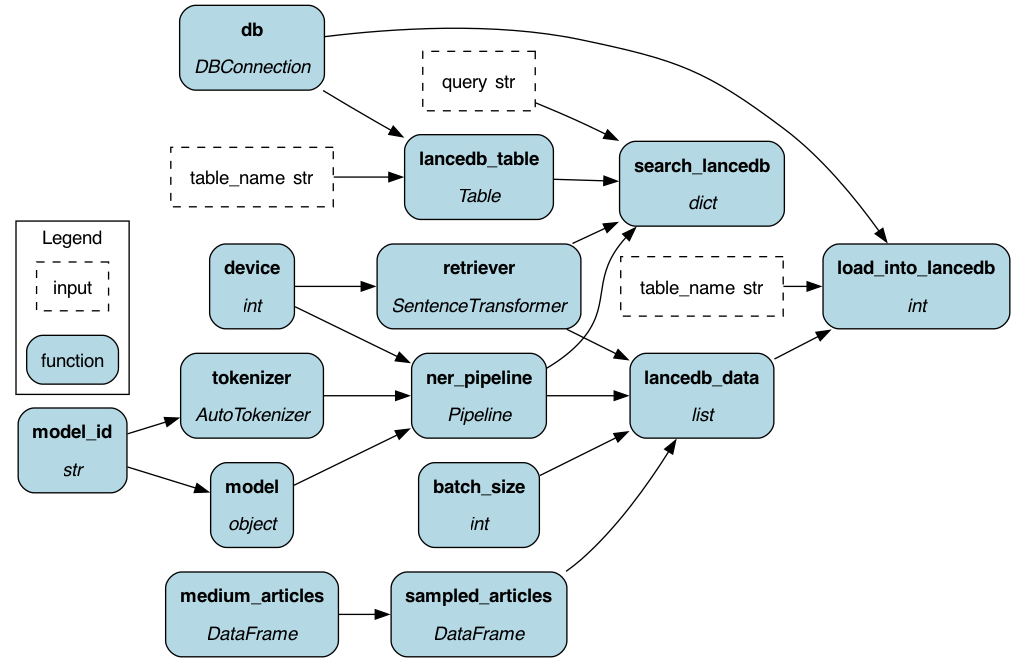
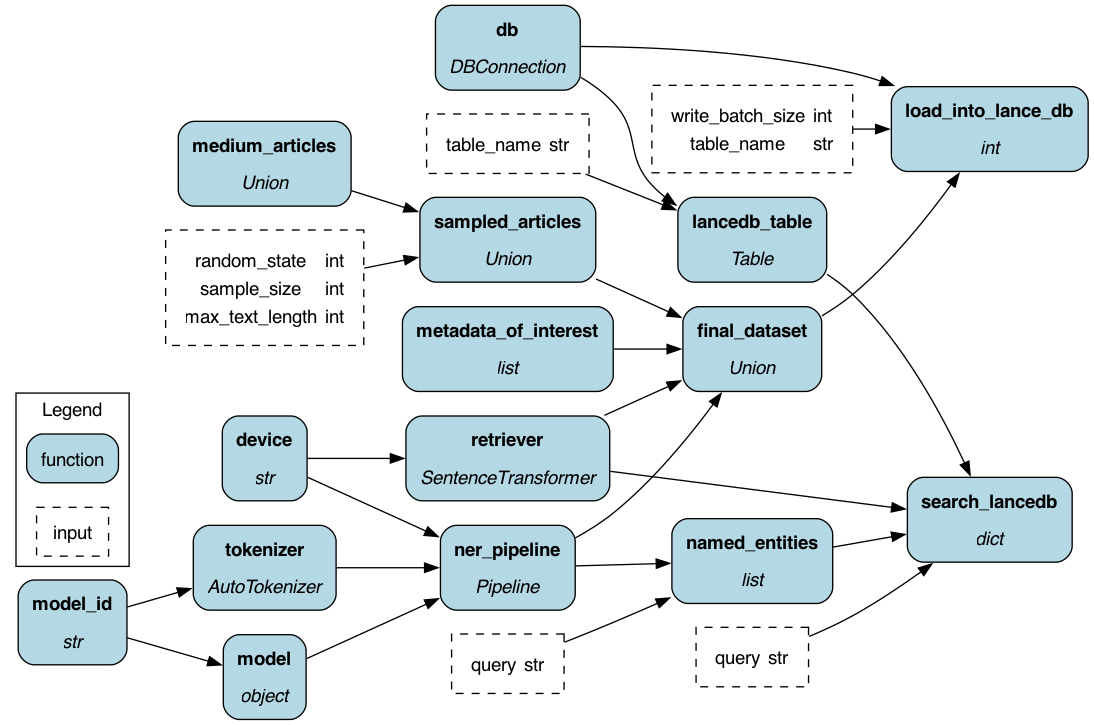
Gets example to run on HF datasets properly
TODOs:
 - tidy up
 - README
 - remove parallel in favor of discussion

diff --git a/examples/LLM_Workflows/NER_Example/ner_extraction.py b/examples/LLM_Workflows/NER_Example/ner_extraction.py
@@ -1,29 +1,51 @@
+from typing import Union
+
 import lancedb
 import numpy as np
-import pandas as pd
+
+# import pandas as pd
 import torch
-from datasets import load_dataset
+from datasets import Dataset, DatasetDict, IterableDataset, IterableDatasetDict, load_dataset
 from sentence_transformers import SentenceTransformer
 from transformers import AutoModelForTokenClassification, AutoTokenizer, pipeline
 from transformers.pipelines import base
 
+HF_DS = Union[DatasetDict, Dataset, IterableDatasetDict, IterableDataset]
 
-def medium_articles() -> pd.DataFrame:
+
+def medium_articles() -> HF_DS:
     # load the dataset and convert to pandas dataframe
-    df = load_dataset(
-        "fabiochiu/medium-articles", data_files="medium_articles.csv", split="train"
-    ).to_pandas()
+    ds = load_dataset("fabiochiu/medium-articles", data_files="medium_articles.csv", split="train")
     # change to HF datasetset
-    return df
+    return ds
 
 
-def sampled_articles(medium_articles: pd.DataFrame) -> pd.DataFrame:
-    df = medium_articles.dropna().sample(20000, random_state=32)
-    # select first 1000 characters
-    df["text"] = df["text"].str[:1000]
-    # join article title and the text
-    df["title_text"] = df["title"] + ". " + df["text"]
-    return df
+def sampled_articles(
+    medium_articles: HF_DS,
+    sample_size: int = 1000,
+    random_state: int = 32,
+    max_text_length: int = 1000,
+) -> HF_DS:
+    """Samples the articles and does some light transformations.
+    Transformations:
+     - selects the first 1000 characters of text. This is for performance here. But in real life you'd
+     do something for your use case.
+      - Joins article title and the text to create one text string.
+    """
+    # Filter out entries with NaN values in 'text' or 'title' fields
+    dataset = medium_articles.filter(
+        lambda example: example["text"] is not None and example["title"] is not None
+    )
+
+    # Shuffle and take the first 10000 samples
+    dataset = dataset.shuffle(seed=random_state).select(range(sample_size))
+
+    # Truncate the 'text' to the first 1000 characters
+    dataset = dataset.map(lambda example: {"text": example["text"][:max_text_length]})
+
+    # Concatenate the 'title' and truncated 'text'
+    dataset = dataset.map(lambda example: {"title_text": example["title"] + ". " + example["text"]})
+    return dataset
 
 
 def device() -> str:
@@ -67,11 +89,6 @@ def db() -> lancedb.DBConnection:
     return lancedb.connect("./.lancedb")
 
 
-def batch_size() -> int:
-    # we will use batches of 64
-    return 64
-
-
 from tqdm.auto import tqdm
 
 
@@ -87,56 +104,140 @@ def _extract_named_entities(text_batch, ner_pipeline):
     return entities
 
 
-def lancedb_data(
-    sampled_articles: pd.DataFrame,
+def _extract_named_entities_text(title_text, ner_pipeline):
+    # extract named entities using the NER pipeline
+    extracted_batch = ner_pipeline(title_text)
+    # this should be extracted_batch = dataset.map(ner_pipeline)
+    entities = []
+    # loop through the results and only select the entity names
+    for text in extracted_batch:
+        ne = [entity["word"] for entity in text]
+        entities.append(ne)
+    named_entities = [list(set(entity)) for entity in entities]
+    return named_entities
+
+
+# def embedded_dataset(sampled_articles: HF_DS, retriever: SentenceTransformer) -> HF_DS:
+#     return sampled_articles.map(lambda x: {"vector": retriever.encode(x["title_text"])})
+
+
+def metadata_of_interest() -> list[str]:
+    return ["title", "url", "authors", "timestamp", "tags"]
+
+
+def final_dataset(
+    sampled_articles: HF_DS,
     retriever: SentenceTransformer,
-    batch_size: int,
     ner_pipeline: base.Pipeline,
-) -> list[dict]:
+    metadata_of_interest: list[str],
+) -> HF_DS:
+    def _batch_map(dataset, retriever, ner_pipeline) -> dict:
+        title_text_list = dataset["title_text"]
+        emb = retriever.encode(title_text_list)
+        named_entities = _extract_named_entities_text(title_text_list, ner_pipeline)
+        # _df = dataset.to_pandas()
+        # _df = _df.drop("title_text", axis=1)
+        return {
+            "embedding": emb,
+            # "metadata": _df.to_dict(orient="records"),
+            "named_entities": named_entities,
+        }
+
+    final_ds = sampled_articles.map(
+        _batch_map, batched=True, fn_kwargs={"retriever": retriever, "ner_pipeline": ner_pipeline}
+    )
+
+    final_ds = final_ds.map(lambda x: {"metadata": {k: x[k] for k in metadata_of_interest}})
+    return final_ds
+
+
+def _write_to_lancedb(data: list[dict], db: lancedb.DBConnection, table_name: str) -> int:
+    try:
+        db.create_table(table_name, data)
+    except (OSError, ValueError):
+        tbl = db.open_table(table_name)
+        tbl.add(data)
+    return len(data)
+
+
+def load_into_lance_db(
+    final_dataset: HF_DS, db: lancedb.DBConnection, table_name: str, write_batch_size: int = 100
+) -> int:
+
+    # iterate in batches to write to lancedb
     data = []
-
-    for i in tqdm(range(0, len(sampled_articles), batch_size)):
+    total_written = 0
+    for i in tqdm(range(0, len(final_dataset), write_batch_size)):
         # find end of batch
-        i_end = min(i + batch_size, len(sampled_articles))
+        i_end = min(i + write_batch_size, len(final_dataset))
         # extract batch
-        batch = sampled_articles.iloc[i:i_end].copy()
-        # generate embeddings for batch
-        # def _title_text_list(batch):
-        #     return retriever.encode(batch["title_text"].tolist()).tolist()
-        # emb = dataset.map(_title_text_list)
-        emb = retriever.encode(batch["title_text"].tolist()).tolist()
-        # extract named entities from the batch
-        entities = _extract_named_entities(batch["title_text"].tolist(), ner_pipeline)
-        # remove duplicate entities from each record
-        batch["named_entities"] = [list(set(entity)) for entity in entities]
-        batch = batch.drop("title_text", axis=1)
-        # get metadata
-        meta = batch.to_dict(orient="records")
+        batch = final_dataset[i:i_end]
         # create unique IDs
-        ids = [f"{idx}" for idx in range(i, i_end)]
         # add all to upsert list
-        to_upsert = list(zip(ids, emb, meta, batch["named_entities"]))
-        for id, emb, meta, entity in to_upsert:
+        to_upsert = list(zip(batch["embedding"], batch["metadata"], batch["named_entities"]))
+        for emb, meta, entity in to_upsert:
             temp = {}
-
             temp["vector"] = np.array(emb)
             temp["metadata"] = meta
             temp["named_entities"] = entity
             data.append(temp)
-    return data
+        total_written += _write_to_lancedb(data, db, table_name)
+        data = []
+    return total_written
 
 
-def load_into_lancedb(
-    lancedb_data: list[dict],
-    db: lancedb.DBConnection,
-    table_name: str,
-) -> int:
-    try:
-        db.create_table(table_name, lancedb_data)
-    except (OSError, ValueError):
-        tbl = db.open_table(table_name)
-        tbl.add(lancedb_data)
-    return len(lancedb_data)
+# def lancedb_data(
+#     sampled_articles: HF_DS,
+#     retriever: SentenceTransformer,
+#     batch_size: int,
+#     ner_pipeline: base.Pipeline,
+# ) -> list[dict]:
+#     data = []
+#
+#     dataset = sampled_articles.map(_batch_map, batched=True, fn_kwargs={"retriever": retriever, "ner_pipeline": ner_pipeline})
+#
+#     for i in tqdm(range(0, len(sampled_articles), batch_size)):
+#         # find end of batch
+#         i_end = min(i + batch_size, len(sampled_articles))
+#         # extract batch
+#         batch = sampled_articles.iloc[i:i_end].copy()
+#         # generate embeddings for batch
+#         # def _title_text_list(batch):
+#         #     return retriever.encode(batch["title_text"].tolist()).tolist()
+#         # emb = dataset.map(_title_text_list)
+#         emb = retriever.encode(batch["title_text"].tolist()).tolist()
+#         # extract named entities from the batch
+#         entities = _extract_named_entities(batch["title_text"].tolist(), ner_pipeline)
+#         # remove duplicate entities from each record
+#         batch["named_entities"] = [list(set(entity)) for entity in entities]
+#         batch = batch.drop("title_text", axis=1)
+#         # get metadata
+#         meta = batch.to_dict(orient="records")
+#         # create unique IDs
+#         ids = [f"{idx}" for idx in range(i, i_end)]
+#         # add all to upsert list
+#         to_upsert = list(zip(ids, emb, meta, batch["named_entities"]))
+#         for id, emb, meta, entity in to_upsert:
+#             temp = {}
+#
+#             temp["vector"] = np.array(emb)
+#             temp["metadata"] = meta
+#             temp["named_entities"] = entity
+#             data.append(temp)
+#     return data
+
+
+# def load_into_lancedb(
+#     lancedb_data: list[dict],
+#     db: lancedb.DBConnection,
+#     table_name: str,
+# ) -> int:
+#     try:
+#         db.create_table(table_name, lancedb_data)
+#     except (OSError, ValueError):
+#         tbl = db.open_table(table_name)
+#         tbl.add(lancedb_data)
+#     return len(lancedb_data)
 
 
 def lancedb_table(db: lancedb.DBConnection, table_name: str = "tw") -> lancedb.table.Table:
@@ -144,18 +245,23 @@ def lancedb_table(db: lancedb.DBConnection, table_name: str = "tw") -> lancedb.t
     return tbl
 
 
+def named_entities(query: str, ner_pipeline: base.Pipeline) -> list[str]:
+    return _extract_named_entities([query], ner_pipeline)[0]
+
+
 def search_lancedb(
     query: str,
-    ner_pipeline: base.Pipeline,
+    named_entities: list[str],
     retriever: SentenceTransformer,
     lancedb_table: lancedb.table.Table,
 ) -> dict:
     # extract named entities from the query
-    ne = _extract_named_entities([query], ner_pipeline)[0]
+    # ne = _extract_named_entities([query], ner_pipeline)[0]
+    # print(ne)
     # create embeddings for the query
     xq = retriever.encode(query).tolist()
     # query the lancedb table while applying named entity filter
     xc = lancedb_table.search(xq).to_list()
     # extract article titles from the search result
-    r = [x["metadata"]["title"] for x in xc for i in x["metadata"]["named_entities"] if i in ne]
-    return {"Extracted Named Entities": ne, "Result": r}
+    r = [x["metadata"]["title"] for x in xc for i in x["named_entities"] if i in named_entities]
+    return {"Extracted Named Entities": named_entities, "Result": r, "Query": query}

diff --git a/examples/LLM_Workflows/NER_Example/run.py b/examples/LLM_Workflows/NER_Example/run.py
@@ -1,6 +1,6 @@
-import os
+# import os
 
-from dagworks import adapters
+from hamilton_sdk import adapters
 
 from hamilton import driver
 
@@ -9,12 +9,11 @@ from hamilton.execution import executors
 
 
 def run_parallel():
-    tracker = adapters.DAGWorksTracker(
-        project_id=19349,
-        api_key=os.environ["DW_API_KEY"],
-        username="stefan@dagworks.io",
-        dag_name="lancedb_parallel_rag",
-        tags={"environment": "DEV", "team": "MY_TEAM", "version": "1"},
+    tracker = adapters.HamiltonTracker(
+        project_id=7,  # modify this as needed
+        username="user@example.com",  # modify this as needed
+        dag_name="my_version_of_the_dag",
+        tags={"environment": "DEV", "team": "MY_TEAM", "version": "X"},
     )
     import ner_extraction_parallel
 
@@ -62,12 +61,11 @@ def run_parallel():
 
 
 def run_sequential():
-    tracker = adapters.DAGWorksTracker(
-        project_id=19349,
-        api_key=os.environ["DW_API_KEY"],
-        username="stefan@dagworks.io",
-        dag_name="lancedb_rag",
-        tags={"environment": "DEV", "team": "MY_TEAM", "version": "1"},
+    tracker = adapters.HamiltonTracker(
+        project_id=7,  # modify this as needed
+        username="elijah@dagworks.io",  # modify this as needed
+        dag_name="my_version_of_the_dag",
+        tags={"environment": "DEV", "team": "MY_TEAM", "version": "X"},
     )
     import ner_extraction
 
@@ -80,17 +78,17 @@ def run_sequential():
     )
     dr.display_all_functions("ner_extraction.png")
 
-    results = dr.execute(
-        ["load_into_lancedb", "lancedb_table"],
-        inputs={"table_name": "temp1"},
-    )
-    print(results)
+    # results = dr.execute(
+    #     ["load_into_lance_db"],
+    #     inputs={"table_name": "temp2"},
+    # )
+    # print(results)
     query = "How Data is changing the world?"
-    r = dr.execute(["search_lancedb"], inputs={"query": query, "table_name": "temp1"})
+    r = dr.execute(["search_lancedb"], inputs={"query": query, "table_name": "temp2"})
     print(r)
 
     query = "Why does SpaceX want to build a city on Mars?"
-    r = dr.execute(["search_lancedb"], inputs={"query": query, "table_name": "temp1"})
+    r = dr.execute(["search_lancedb"], inputs={"query": query, "table_name": "temp2"})
     print(r)
 
 
